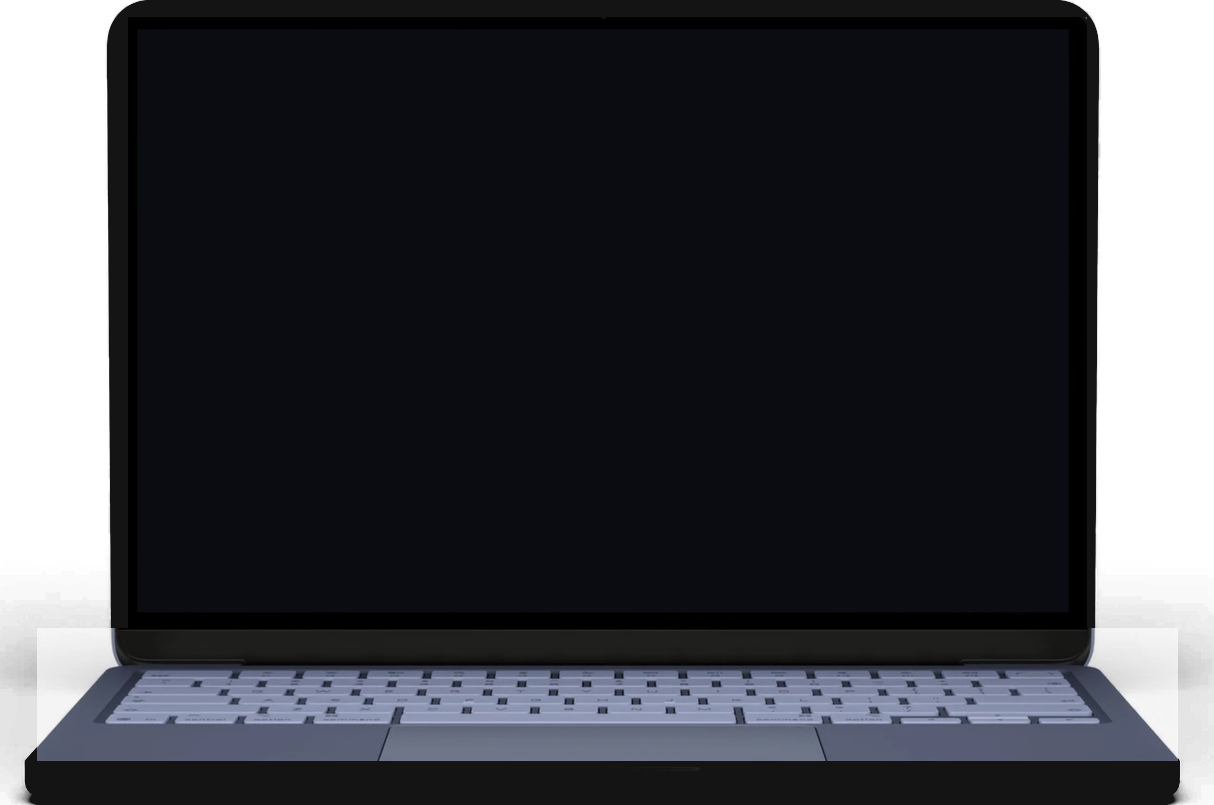
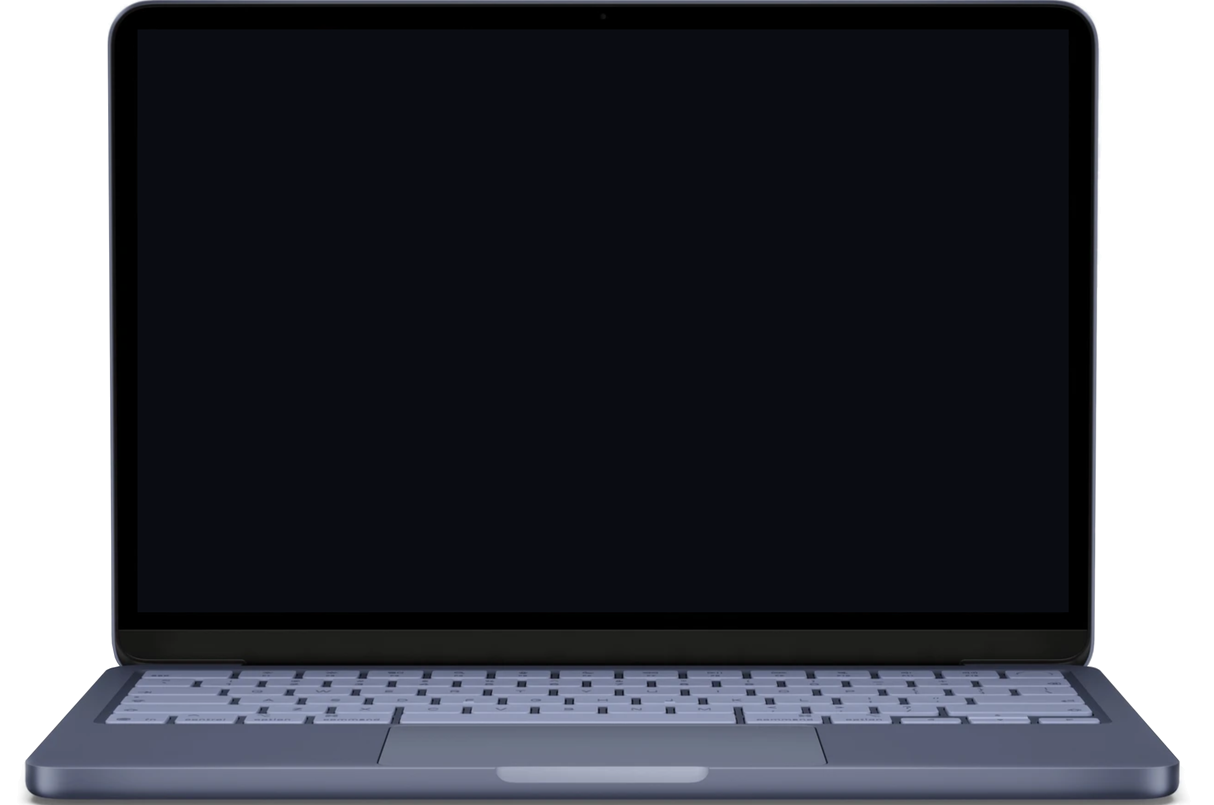
Complete Chapter 1 presentation arc: clean laptop frame, FD/TNA interactive decks, symmetric BRG papers chatbot, verification loop, workspace, and deliverable

Changed region(s): [[0.0, 0.0, 1.0, 1.0], [0.061, 0.0621, 0.0914, 0.2484]]

diff --git a/CAS/website/style.css b/CAS/website/style.css
@@ -228,26 +228,38 @@ details[open] > summary .pm::after { transform: rotate(0deg); }
 .presentation-stage { flex: 1; min-height: 0; display: flex; align-items: center; justify-content: center; overflow: hidden; }
 .presentation-stage > img { display: block; width: 100%; height: 100%; object-fit: contain; }
 .apps-triangle-slide { position: relative; width: min(100vw, calc((100svh - 104px) * 1.98)); height: min(100%, 960px); max-width: 1900px; }
-.apps-top-center { position: absolute; left: 50%; top: 1.5%; transform: translateX(-50%); width: 22.5%; display: grid; grid-template-columns: 1fr 1fr; gap: 8px 10px; z-index: 3; }
-.apps-node { min-height: clamp(36px, 4.8vh, 52px); padding: 6px 10px; border: 2px solid var(--rule); background: var(--paper); display: flex; align-items: center; justify-content: center; text-align: center; }
+.apps-top-center { position: absolute; left: 50%; top: 2%; transform: translateX(-50%); width: 13.5%; display: flex; flex-direction: column; gap: clamp(6px, 0.9vh, 10px); z-index: 3; }
+.apps-node { min-height: clamp(34px, 4.5vh, 48px); padding: 6px 12px; border: 2px solid var(--rule); background: var(--paper); display: flex; align-items: center; justify-content: center; text-align: center; }
 .apps-node strong { font-size: clamp(12px, 1.65vh, 17px); font-weight: 600; letter-spacing: -.015em; color: var(--c); line-height: 1.1; }
 .apps-node.emphasis { border-color: var(--c); background: var(--c); }
 .apps-node.emphasis strong { color: #fff; }
-.apps-demo { position: absolute; width: 41.5%; display: flex; flex-direction: column; align-items: center; gap: 6px; text-decoration: none; color: inherit; }
-.apps-demo.pos-0 { left: 0.5%; top: 1%; z-index: 1; }
-.apps-demo.pos-2 { right: 0.5%; top: 1%; z-index: 1; }
+.apps-demo { position: absolute; width: 42.5%; display: flex; flex-direction: column; align-items: center; gap: 4px; text-decoration: none; color: inherit; }
+.apps-demo.pos-0 { left: 0.4%; top: 1%; z-index: 1; }
+.apps-demo.pos-2 { right: 0.4%; top: 1%; z-index: 1; }
 .apps-demo.pos-1 { left: 50%; bottom: 0.5%; transform: translateX(-50%); z-index: 2; }
-.apps-demo-tab { min-width: 34%; padding: clamp(4px, 0.7vh, 8px) clamp(12px, 1.2vw, 18px); border: 2px solid var(--rule); background: var(--paper); text-align: center; transition: border-color .2s; }
-.apps-demo-tab strong { font-size: clamp(12px, 1.65vh, 17px); font-weight: 600; letter-spacing: -.01em; color: var(--c); }
-.apps-demo:hover .apps-demo-tab { border-color: var(--c); }
+.apps-demo-label { font-size: clamp(14px, 1.9vh, 20px); font-weight: 600; letter-spacing: -.01em; color: var(--c); line-height: 1.2; }
+.apps-demo:hover .apps-demo-label { text-decoration: underline; text-underline-offset: 3px; }
 .apps-laptop { position: relative; width: 100%; }
 .apps-laptop-frame { display: block; width: 100%; height: auto; }
 .apps-laptop-screen { position: absolute; left: 11.402%; top: 3.771%; width: 76.515%; height: 72.114%; object-fit: cover; border-radius: 1.3% 1.3% 0 0; }
-.idraw-slide { width: min(98vw, 1780px); max-height: 100%; padding: clamp(12px, 2vh, 28px) clamp(12px, 2vw, 32px); display: grid; grid-template-columns: minmax(280px, 430px) 48px minmax(480px, 1140px); align-items: center; justify-content: center; gap: 12px; overflow-y: auto; }
+.idraw-slide, .papers-slide { width: min(98vw, 1800px); max-height: 100%; padding: clamp(10px, 1.8vh, 24px) clamp(12px, 2vw, 32px); display: grid; grid-template-columns: minmax(290px, 420px) 44px minmax(480px, 1150px); align-items: center; justify-content: center; gap: 12px; overflow-y: auto; }
+.papers-slide { grid-template-columns: minmax(270px, 360px) 44px minmax(500px, 1200px); }
+.idraw-left { display: flex; flex-direction: column; gap: clamp(10px, 1.5vh, 16px); min-width: 0; }
+.idraw-list-box { border: 2px solid var(--rule); background: var(--paper); display: flex; flex-direction: column; }
+.idraw-list-head { padding: 10px 16px; background: var(--c); color: #fff; display: flex; align-items: baseline; justify-content: space-between; gap: 8px; }
+.idraw-list-head strong { font-size: clamp(14px, 1.85vh, 18px); font-weight: 600; letter-spacing: -.01em; }
+.idraw-list-head span { font-size: clamp(11.5px, 1.4vh, 13.5px); color: rgba(255, 255, 255, .86); }
+.idraw-list { display: flex; flex-direction: column; }
+.idraw-item { display: grid; grid-template-columns: 26px 1fr auto; align-items: center; gap: 8px; padding: clamp(7px, 1.05vh, 11px) 14px; text-decoration: none; color: var(--ink); border-top: 1px solid var(--rule); font-size: clamp(12.5px, 1.55vh, 15px); line-height: 1.25; transition: background .15s, color .15s; }
+.idraw-item:first-child { border-top: 0; }
+.idraw-item-num { font-size: clamp(11px, 1.35vh, 13px); font-weight: 700; color: var(--c); }
+.idraw-item-title { font-weight: 600; min-width: 0; }
+.idraw-item-ext { font-size: 13px; font-weight: 700; color: var(--c); }
+.idraw-item:hover, .idraw-item.active { background: color-mix(in srgb, var(--c) 9%, white); color: var(--c); }
 .idraw-yaml { border: 2px solid var(--rule); background: var(--paper); display: flex; flex-direction: column; }
-.idraw-yaml-head { padding: 10px 18px; border-bottom: 1px solid var(--rule); }
-.idraw-yaml-head strong { font-size: clamp(15px, 2vh, 20px); font-weight: 600; color: var(--c); }
-.idraw-yaml-code { margin: 0; padding: clamp(14px, 2vh, 22px) 20px; font: 400 clamp(12px, 1.55vh, 16px)/1.55 ui-monospace, "SFMono-Regular", Menlo, Consolas, monospace; color: var(--ink); overflow-x: auto; }
+.idraw-yaml-head { padding: 8px 16px; border-bottom: 1px solid var(--rule); }
+.idraw-yaml-head strong { font-size: clamp(13.5px, 1.75vh, 17px); font-weight: 600; color: var(--c); }
+.idraw-yaml-code { margin: 0; padding: clamp(10px, 1.4vh, 15px) 16px; font: 400 clamp(11px, 1.38vh, 14px)/1.45 ui-monospace, "SFMono-Regular", Menlo, Consolas, monospace; color: var(--ink); overflow-x: auto; }
 .slide-arrow { display: flex; align-items: center; justify-content: center; }
 .slide-arrow i { position: relative; display: block; width: 34px; height: 2px; background: var(--c); }
 .slide-arrow i::after { content: ""; position: absolute; right: -1px; top: 50%; margin-top: -5px; border-top: 5px solid transparent; border-bottom: 5px solid transparent; border-left: 8px solid var(--c); }
@@ -274,10 +286,21 @@ details[open] > summary .pm::after { transform: rotate(0deg); }
 .books-pipe-arrow { height: clamp(58px, 8.6vh, 84px); display: flex; align-items: center; justify-content: center; }
 .books-pipe-arrow i { position: relative; display: block; width: 26px; height: 2px; background: var(--c); }
 .books-pipe-arrow i::after { content: ""; position: absolute; right: -1px; top: 50%; margin-top: -5px; border-top: 5px solid transparent; border-bottom: 5px solid transparent; border-left: 8px solid var(--c); }
+.papers-col { display: flex; flex-direction: column; gap: clamp(10px, 1.5vh, 16px); }
+.papers-pill { padding: clamp(12px, 1.8vh, 18px) 18px; border: 2px solid var(--rule); background: var(--paper); display: flex; flex-direction: column; gap: 4px; text-align: left; }
+.papers-pill strong { font-size: clamp(15px, 2.05vh, 21px); font-weight: 600; color: var(--c); letter-spacing: -.015em; line-height: 1.15; }
+.papers-pill span { font-size: clamp(12.5px, 1.55vh, 15px); color: var(--muted); line-height: 1.38; }
+.papers-pill.emphasis { border-color: var(--c); background: var(--c); }
+.papers-pill.emphasis strong { color: #fff; }
+.papers-pill.emphasis span { color: rgba(255, 255, 255, .86); }
+.workspace-slide { width: min(98vw, 1560px); max-height: 100%; padding: clamp(10px, 1.8vh, 24px); display: flex; flex-direction: column; align-items: center; justify-content: center; gap: clamp(12px, 2vh, 22px); overflow-y: auto; }
+.workspace-laptop-link { width: min(100%, calc((100svh - 175px) * 1.508)); max-width: 1220px; display: flex; flex-direction: column; align-items: center; gap: 8px; text-decoration: none; color: inherit; transition: transform .2s; }
+.workspace-laptop-link:hover { transform: scale(1.01); }
 @media (max-width: 960px) {
   .apps-triangle-slide { position: static; width: 100%; height: auto; padding: 12px; display: flex; flex-direction: column; align-items: center; gap: 16px; overflow-y: auto; }
   .apps-top-center, .apps-demo, .apps-demo.pos-0, .apps-demo.pos-1, .apps-demo.pos-2 { position: static; width: min(100%, 560px); transform: none; }
-  .idraw-slide { grid-template-columns: 1fr; justify-items: center; }
+  .idraw-slide, .papers-slide { grid-template-columns: 1fr; justify-items: center; }
+  .idraw-left, .papers-col { width: min(100%, 560px); }
   .slide-arrow { display: none; }
   .books-shelf { grid-template-columns: repeat(3, minmax(0, 1fr)); }
   .books-pipe { grid-template-columns: 1fr; gap: 10px; }
@@ -293,11 +316,13 @@ details[open] > summary .pm::after { transform: rotate(0deg); }
 .presentation-controls > button { width: fit-content; padding: 8px 12px; border: 0; background: none; color: var(--ink); font: 600 15px var(--sans); cursor: pointer; }
 .presentation-controls > button:last-child { justify-self: end; }
 .presentation-controls button:hover { color: var(--c); }
-.presentation-dots { display: flex; gap: 10px; }
+.presentation-dots { display: flex; flex-wrap: wrap; justify-content: center; gap: 10px; }
 .presentation-dots button { width: 12px; height: 12px; padding: 0; border: 2px solid var(--c); border-radius: 50%; background: var(--paper); cursor: pointer; }
 .presentation-dots button.active { background: var(--c); }
 @media (max-width: 520px) {
   .presentation-controls > button span { display: none; }
+  .presentation-dots { gap: 6px; }
+  .presentation-dots button { width: 10px; height: 10px; }
 }
 
 .grading summary { justify-content: flex-start; font-size: 15px; color: var(--muted); padding: 6px 0; width: fit-content; }

diff --git a/website/src/PresentationSlideshow.vue b/website/src/PresentationSlideshow.vue
@@ -46,7 +46,7 @@ const onKeydown = (event) => {
         <button ref="closeButton" type="button" class="presentation-close" aria-label="Close presentation" @click="close">×</button>
       </header>
       <div class="presentation-stage">
-        <!-- Slide 3: Triangle-tiled large GIF laptops + 2x2 BRG boxes -->
+        <!-- Slide 3: Triangle-tiled large GIF laptops + vertical BRG stack + borderless labels -->
         <div v-if="slides[current].applications" class="apps-triangle-slide" :aria-label="slides[current].alt">
           <div class="apps-top-center">
             <div v-for="item in slides[current].applications.groups" :key="item.title"
@@ -57,7 +57,7 @@ const onKeydown = (event) => {
           <a v-for="(demo, idx) in slides[current].applications.demos" :key="demo.title"
              class="apps-demo" :class="`pos-${idx}`" :href="demo.url" target="_blank" rel="noopener"
              :title="`Watch ${demo.title} video on YouTube`">
-            <div class="apps-demo-tab"><strong>{{ demo.title }}</strong></div>
+            <strong class="apps-demo-label">{{ demo.title }}</strong>
             <div class="apps-laptop">
               <img class="apps-laptop-frame" :src="slides[current].applications.laptopFrame" alt="">
               <img class="apps-laptop-screen" :src="demo.gif" :alt="`${demo.title} showcase`">
@@ -65,24 +65,40 @@ const onKeydown = (event) => {
           </a>
         </div>
 
-        <!-- Slide 7: Interactive Drawings (YAML internals -> Large Clickable Laptop GIF) -->
+        <!-- Slides 7 & 8: Interactive Drawings (FD and TNA clickable lists + YAML internals -> Large Clickable Laptop GIF) -->
         <div v-else-if="slides[current].interactiveDrawing" class="idraw-slide" :aria-label="slides[current].alt">
-          <div class="idraw-yaml">
-            <div class="idraw-yaml-head"><strong>{{ slides[current].interactiveDrawing.specTitle }}</strong></div>
-            <pre class="idraw-yaml-code">{{ slides[current].interactiveDrawing.yaml }}</pre>
+          <div class="idraw-left">
+            <div v-if="slides[current].interactiveDrawing.presentations?.length" class="idraw-list-box">
+              <div class="idraw-list-head">
+                <strong>{{ slides[current].interactiveDrawing.methodTitle }}</strong>
+                <span v-if="slides[current].interactiveDrawing.methodSub">{{ slides[current].interactiveDrawing.methodSub }}</span>
+              </div>
+              <nav class="idraw-list" :aria-label="`${slides[current].interactiveDrawing.methodTitle} presentations`">
+                <a v-for="(pres, pIdx) in slides[current].interactiveDrawing.presentations" :key="pres.url"
+                   class="idraw-item" :class="{ active: pres.active }" :href="pres.url" target="_blank" rel="noopener">
+                  <span class="idraw-item-num">{{ String(pIdx + 1).padStart(2, '0') }}</span>
+                  <span class="idraw-item-title">{{ pres.title }}</span>
+                  <span class="idraw-item-ext" aria-hidden="true">↗</span>
+                </a>
+              </nav>
+            </div>
+            <div class="idraw-yaml">
+              <div class="idraw-yaml-head"><strong>{{ slides[current].interactiveDrawing.specTitle }}</strong></div>
+              <pre class="idraw-yaml-code">{{ slides[current].interactiveDrawing.yaml }}</pre>
+            </div>
           </div>
           <div class="slide-arrow" aria-hidden="true"><i></i></div>
           <a class="idraw-laptop-link" :href="slides[current].interactiveDrawing.url" target="_blank" rel="noopener"
-             title="Open live interactive Force Density presentation">
+             :title="`Open live interactive ${slides[current].interactiveDrawing.methodTitle || ''} presentation`">
             <div class="apps-laptop">
               <img class="apps-laptop-frame" :src="slides[current].interactiveDrawing.laptopFrame" alt="">
-              <img class="apps-laptop-screen" :src="slides[current].interactiveDrawing.gif" alt="Interactive Force Density presentation">
+              <img class="apps-laptop-screen" :src="slides[current].interactiveDrawing.gif" :alt="slides[current].alt">
             </div>
-            <span class="idraw-click-hint">Click to open interactive viewer ↗</span>
+            <span class="idraw-click-hint">{{ slides[current].interactiveDrawing.hint || 'Click to open interactive viewer ↗' }}</span>
           </a>
         </div>
 
-        <!-- Slide 8: Canonical Graphic Statics Books (with ... in between) -> Digital MCP Resource -->
+        <!-- Slide 9: Canonical Graphic Statics Books (with ... in between) -> Digital MCP Resource -->
         <div v-else-if="slides[current].booksResource" class="books-slide" :aria-label="slides[current].alt">
           <p v-if="slides[current].booksResource.lead" class="books-lead">{{ slides[current].booksResource.lead }}</p>
           <div class="books-shelf">
@@ -108,6 +124,45 @@ const onKeydown = (event) => {
               <div v-if="idx < slides[current].booksResource.pipeline.length - 1" class="books-pipe-arrow" aria-hidden="true"><i></i></div>
             </template>
           </div>
+        </div>
+
+        <!-- Slide 10: brg_papers + PhD Theses -> BRG Website Chatbot -->
+        <div v-else-if="slides[current].papersResource" class="papers-slide" :aria-label="slides[current].alt">
+          <div class="papers-col">
+            <div class="papers-pill emphasis">
+              <strong>{{ slides[current].papersResource.title }}</strong>
+              <span>{{ slides[current].papersResource.count }}</span>
+            </div>
+            <div class="papers-pill">
+              <strong>Subjects</strong>
+              <span>{{ slides[current].papersResource.subjects }}</span>
+            </div>
+            <div v-for="use in slides[current].papersResource.uses" :key="use.title" class="papers-pill">
+              <strong>{{ use.title }}</strong>
+              <span>{{ use.sub }}</span>
+            </div>
+          </div>
+          <div class="slide-arrow" aria-hidden="true"><i></i></div>
+          <a class="idraw-laptop-link" :href="slides[current].papersResource.url" target="_blank" rel="noopener"
+             title="Open BRG Papers & PhD Theses in Library">
+            <div class="apps-laptop">
+              <img class="apps-laptop-frame" :src="slides[current].papersResource.laptopFrame" alt="">
+              <img class="apps-laptop-screen" :src="slides[current].papersResource.screen" :alt="slides[current].alt">
+            </div>
+            <span class="idraw-click-hint">{{ slides[current].papersResource.hint || 'Open BRG papers & theses in Library ↗' }}</span>
+          </a>
+        </div>
+
+        <!-- Slide 12: Zero-install Student Browser Workspace -->
+        <div v-else-if="slides[current].workspaceSlide" class="workspace-slide" :aria-label="slides[current].alt">
+          <p v-if="slides[current].workspaceSlide.lead" class="books-lead">{{ slides[current].workspaceSlide.lead }}</p>
+          <a class="workspace-laptop-link" :href="slides[current].workspaceSlide.url" target="_blank" rel="noopener">
+            <div class="apps-laptop">
+              <img class="apps-laptop-frame" :src="slides[current].workspaceSlide.laptopFrame" alt="">
+              <img class="apps-laptop-screen" :src="slides[current].workspaceSlide.screen" :alt="slides[current].alt">
+            </div>
+            <span v-if="slides[current].workspaceSlide.hint" class="idraw-click-hint">{{ slides[current].workspaceSlide.hint }}</span>
+          </a>
         </div>
 
         <img v-else :src="slides[current].src" :alt="slides[current].alt">

diff --git a/CAS/website/data.js b/CAS/website/data.js
@@ -37,7 +37,7 @@ window.CAS = {
                   { title: 'brg_framework', emphasis: true },
                   { title: 'brg_presentation' },
                 ],
-                laptopFrame: 'presentations/mcp/laptop-frame.png?v=3',
+                laptopFrame: 'presentations/mcp/laptop-frame.png?v=6',
                 demos: [
                   { title: 'Chatbot', gif: 'presentations/mcp/chatbot.gif?v=2', url: 'https://www.youtube.com/watch?v=rVgoINY87DU' },
                   { title: 'Terminal', gif: 'presentations/mcp/terminal.gif?v=2', url: 'https://www.youtube.com/watch?v=yalyvv4nIP0' },
@@ -49,27 +49,61 @@ window.CAS = {
             { src: 'presentations/mcp/slide-5.png?v=1', alt: 'Method focus across four subjects: FD (Force Density, highlighted), DR (Dynamic Relaxation), TNA (Thrust Network Analysis) and AGS (Algebraic Graphic Statics).' },
             { src: 'presentations/mcp/slide-6.png?v=2', alt: 'Folder structure of brg_framework MCP for the Force Density (FD) method.' },
             {
-              key: 'interactive-drawing',
-              alt: 'Interactive Force Density drawings driven by presentation.yaml and protobuf steps, displayed inside a large clickable laptop.',
+              key: 'interactive-drawing-fd',
+              alt: 'Interactive Force Density presentations (5 clickable decks) and presentation.yaml internals, displayed beside a large clickable laptop.',
               interactiveDrawing: {
+                methodTitle: 'FD · Interactive Drawings',
+                methodSub: '5 decks',
+                presentations: [
+                  { title: 'Static Equilibrium (Cosines)', url: 'https://petrasvestartas.github.io/session/?stage=equilibrium' },
+                  { title: 'Single-Node & 5-Node Equations', url: 'https://petrasvestartas.github.io/session/?stage=force-density', active: true },
+                  { title: 'Force Density Matrices', url: 'https://petrasvestartas.github.io/session/?stage=force-density-matrices' },
+                  { title: 'Jacobian & Matrix Derivation', url: 'https://petrasvestartas.github.io/session/?stage=force-density-derivation' },
+                  { title: 'Materialization & Cut Lengths', url: 'https://petrasvestartas.github.io/session/?stage=force-density-materialization' },
+                ],
                 specTitle: 'presentation.yaml',
                 yaml: `name: Force Density
-width: 1600
-height: 760
 spatial_split: 0.56
 topics:
   - title: 1 Equilibrium
     steps:
       - file: steps/00_00.pb
         effects:
-          - name: polygon-0
-            from: e0
-            kind: morph
-          - name: equilibrium-sum
-            kind: grow`,
-                laptopFrame: 'presentations/mcp/laptop-frame.png?v=3',
+          - { name: poly-0, kind: morph }
+          - { name: eq-sum, kind: grow }`,
+                laptopFrame: 'presentations/mcp/laptop-frame.png?v=6',
                 gif: 'presentations/mcp/fd-interactive.gif?v=1',
                 url: 'https://petrasvestartas.github.io/session/?stage=force-density',
+                hint: 'Click to open FD interactive viewer ↗',
+              },
+            },
+            {
+              key: 'interactive-drawing-tna',
+              alt: 'Interactive Thrust Network Analysis presentations (5 clickable decks) and YAML stage format, displayed beside a large clickable laptop.',
+              interactiveDrawing: {
+                methodTitle: 'TNA · Interactive Drawings',
+                methodSub: '5 decks',
+                presentations: [
+                  { title: 'Single-Node Thrust Equilibrium', url: 'https://petrasvestartas.github.io/session/?stage=thrust-network_analysis_one_node' },
+                  { title: 'Horizontal Equilibrium (Γ & Γ*)', url: 'https://petrasvestartas.github.io/session/?stage=thrust-network_analysis_horizontal_equilibrium', active: true },
+                  { title: 'Five Horizontal Equilibrium Methods', url: 'https://petrasvestartas.github.io/session/?stage=thrust-network_analysis_horizontal_methods' },
+                  { title: 'Vertical Equilibrium & Heights', url: 'https://petrasvestartas.github.io/session/?stage=thrust-network_analysis_vertical_equilibrium' },
+                  { title: 'Compression Plans & 3D Vaults', url: 'https://petrasvestartas.github.io/session/?stage=thrust-network_analysis_geometries' },
+                ],
+                specTitle: '01-force-diagram.yaml',
+                yaml: `title: THE FORCE DIAGRAM
+split: 0.5
+camera: { view: top, fit: [LO, HI] }
+slides:
+  - title: NODES CLOSE POLYGONS
+    steps:
+      - say: 'Four bars push on node 1.'
+        do:
+          - add: [{ id: b0, line: [s1, n1] }]`,
+                laptopFrame: 'presentations/mcp/laptop-frame.png?v=6',
+                gif: 'presentations/mcp/tna-interactive.gif?v=1',
+                url: 'https://petrasvestartas.github.io/session/?stage=thrust-network_analysis_horizontal_equilibrium',
+                hint: 'Click to open TNA interactive viewer ↗',
               },
             },
             {
@@ -94,6 +128,36 @@ topics:
                 ],
               },
             },
+            {
+              key: 'papers-resource',
+              alt: 'brg_papers and PhD theses (154 papers, 2006–2024) powering traceable citations, research-gap mapping, and a chatbot on the BRG publications website.',
+              papersResource: {
+                title: 'brg_papers',
+                count: '154 papers · PhD theses · 2006–2024',
+                subjects: 'TNA & Masonry · Materialization · Graphic Statics · Form Finding',
+                uses: [
+                  { title: 'Traceable Citations', sub: 'Exact paper, figure & page URL' },
+                  { title: 'Research-Gap Mapping', sub: 'Covered vs. missing lines' },
+                ],
+                laptopFrame: 'presentations/mcp/laptop-frame.png?v=6',
+                screen: 'presentations/mcp/brg-web-chatbot.jpg?v=3',
+                url: 'library.html#/papers',
+                hint: 'Open BRG papers & theses in Library ↗',
+              },
+            },
+            { src: 'presentations/mcp/slide-10.png?v=2', alt: 'LLMs propose, solvers verify: LLM parses text and writes COMPAS script, COMPAS Solver computes exact equilibrium (residual = 0), and Verified Model / Plot returns errors and residuals to the LLM.' },
+            {
+              key: 'workspace-slide',
+              alt: 'Zero-install browser workspace combining the BRG Library, BRG Terminal, and JupyterLite in one screen with Claude, Gemini, and Kimi support.',
+              workspaceSlide: {
+                lead: 'Zero-install Day-1 workspace — Library, BRG Terminal & JupyterLite in one browser tab.',
+                laptopFrame: 'presentations/mcp/laptop-frame.png?v=6',
+                screen: 'presentations/mcp/workspace-screen.jpg?v=2',
+                url: 'library.html#/notebook',
+                hint: 'Open browser workspace (Claude · Gemini · Kimi) ↗',
+              },
+            },
+            { src: 'presentations/mcp/slide-12.png?v=2', alt: 'One Setup to Chapter 1 Deliverable (Weeks 1–2): 01 Connect MCP, 02 Ground an answer with page-level BRG book & paper citations, 03 Reproduce a verified COMPAS structure in a Jupyter notebook.' },
           ],
         },
         items: [
